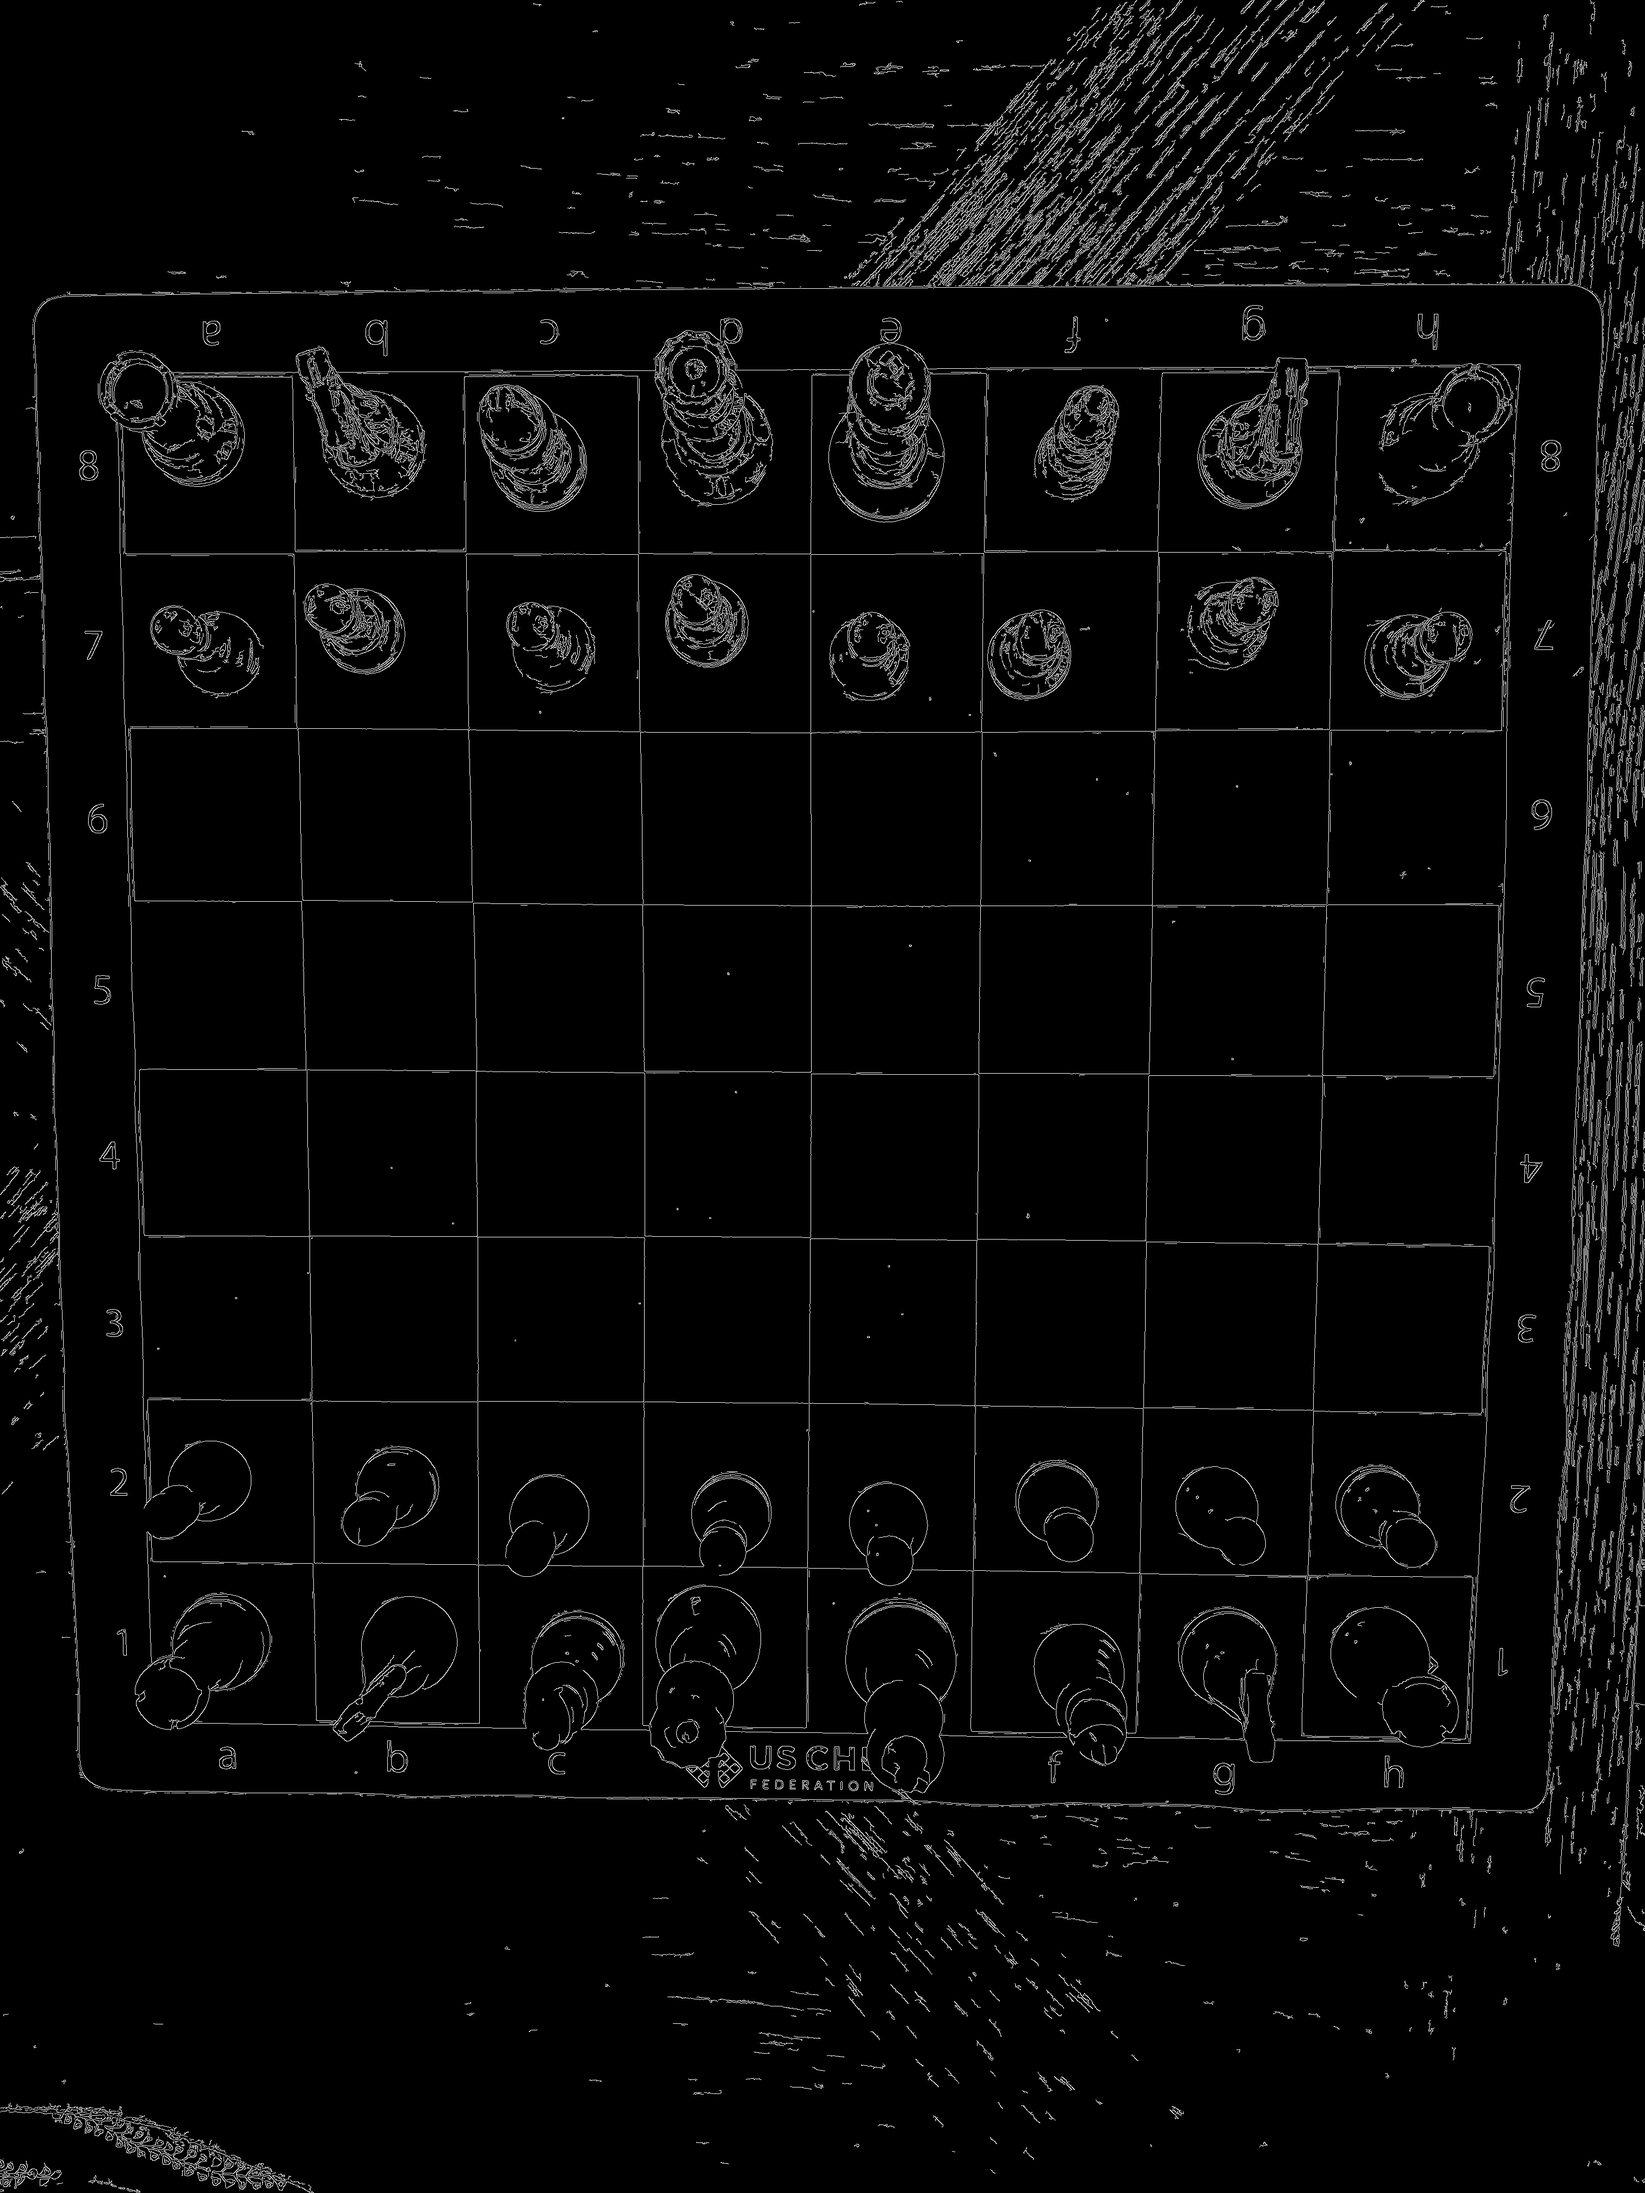
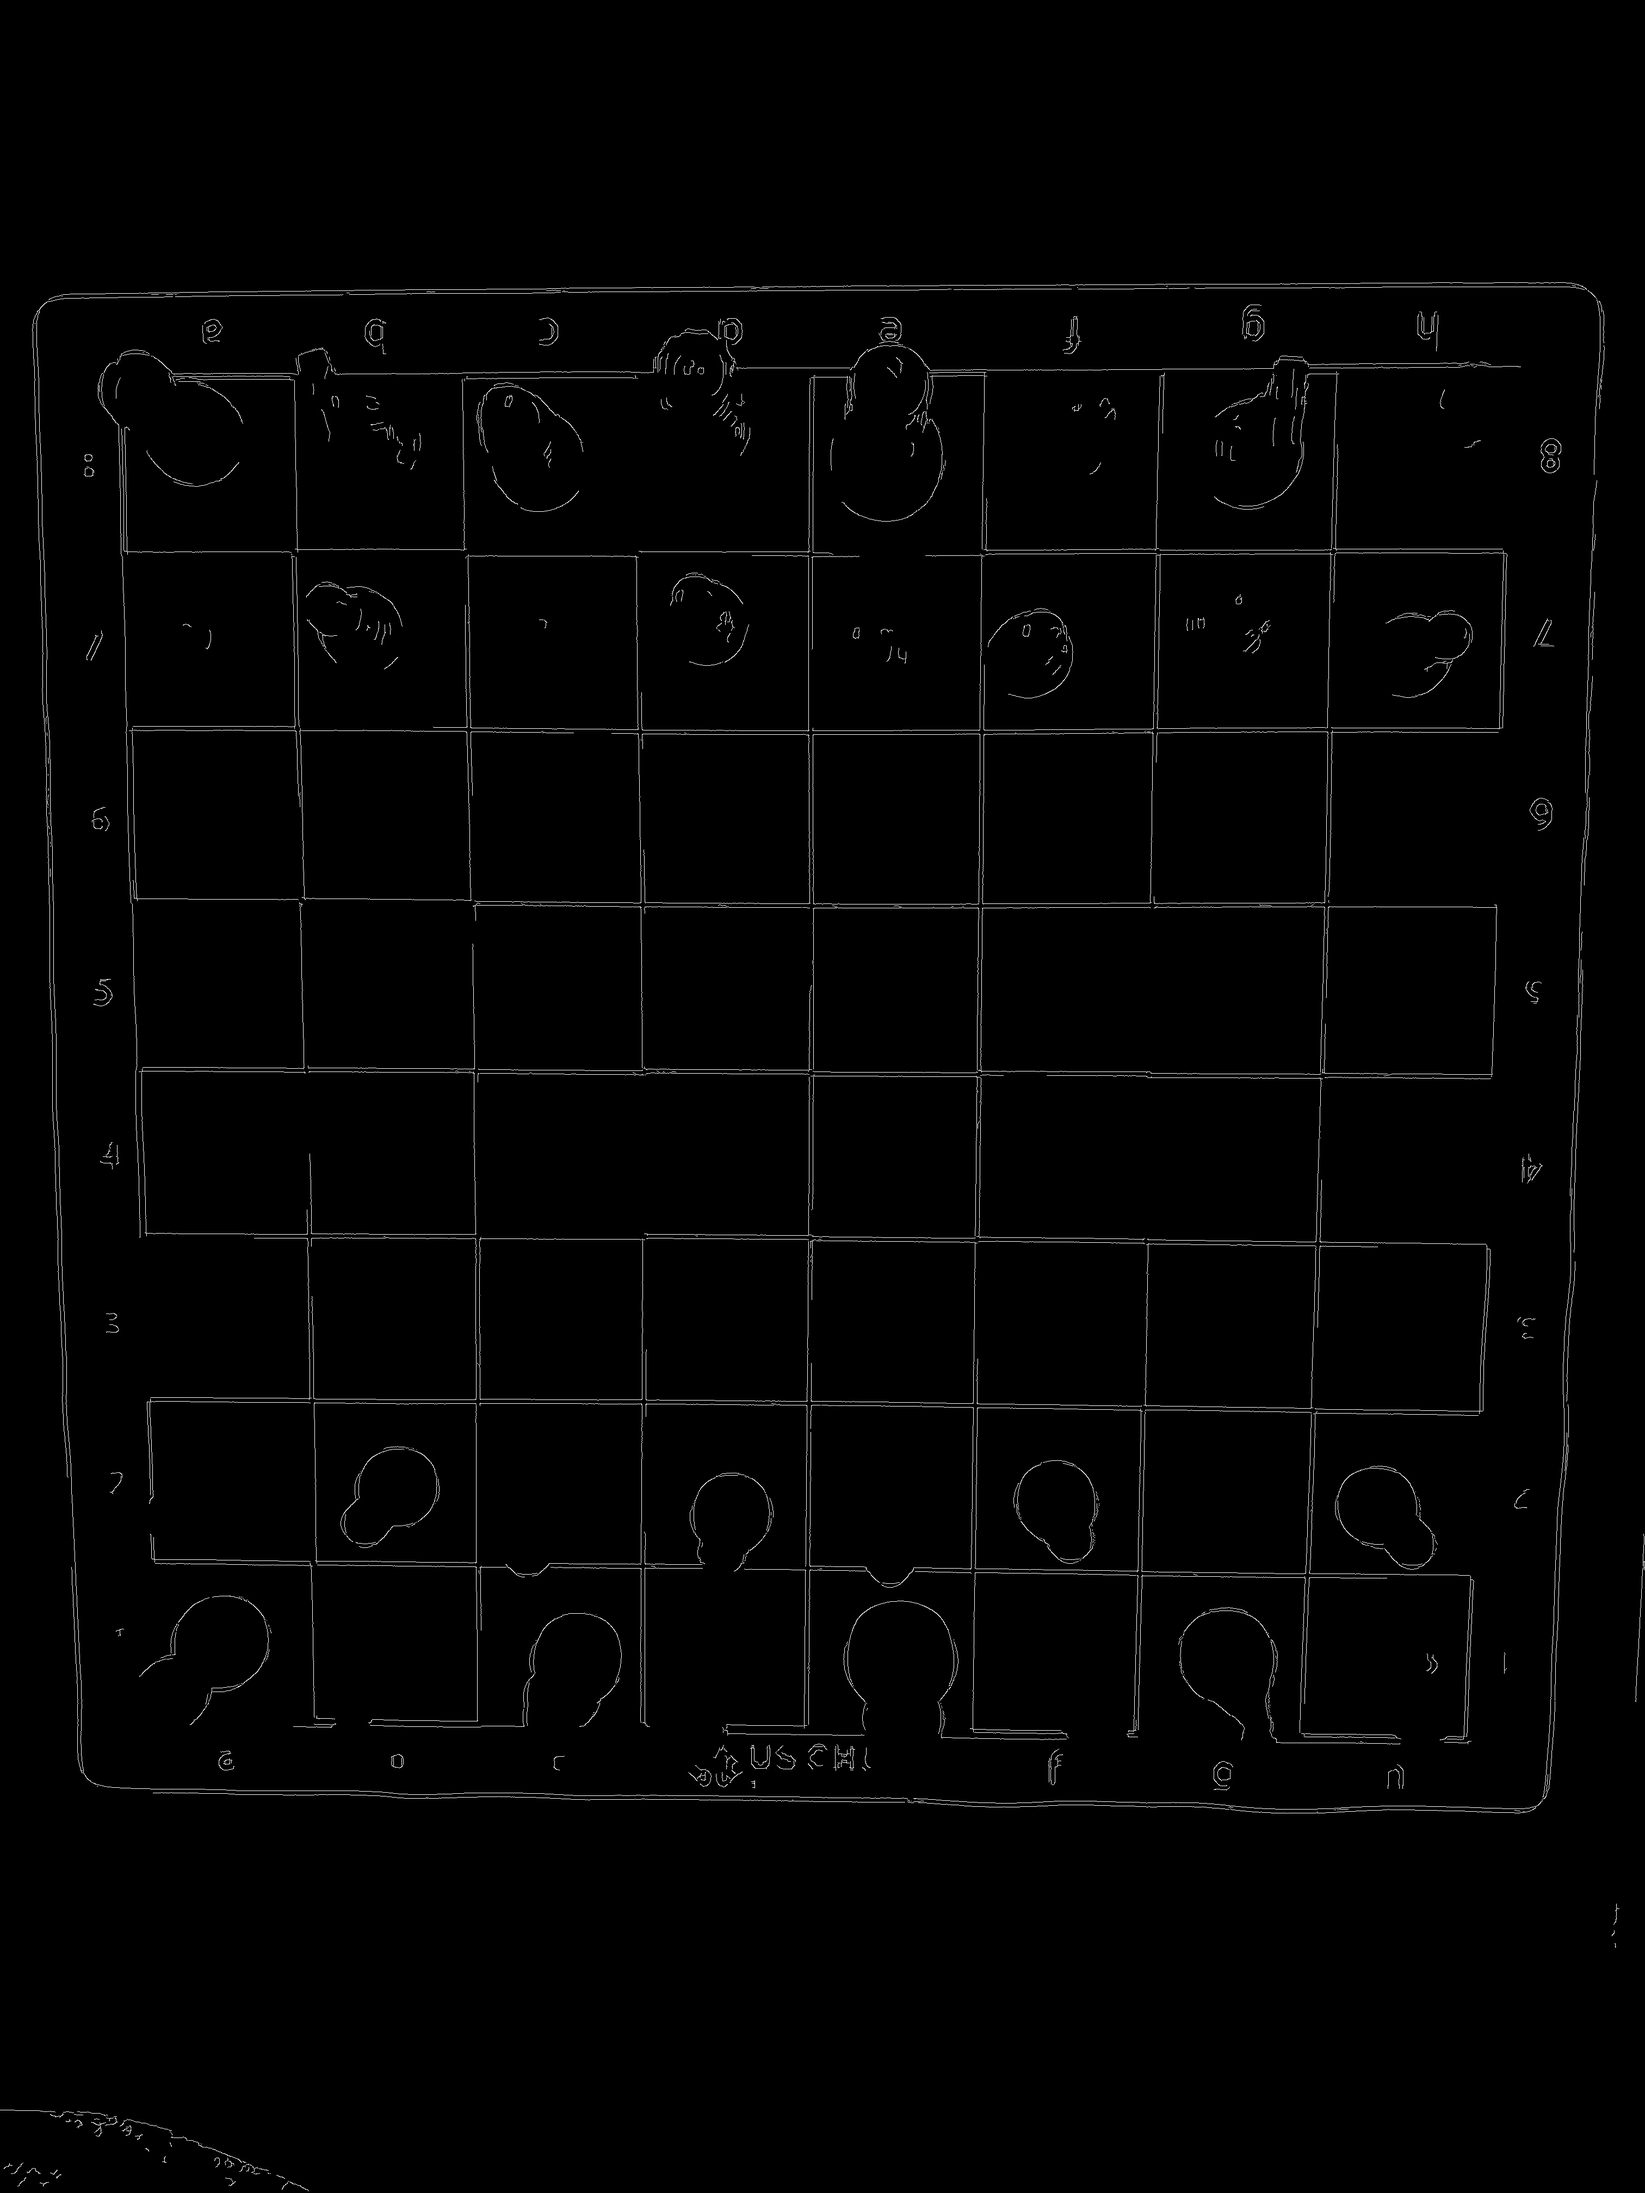
adjusted settings for better line (chess board) detection

diff --git a/check4mate (python app)/main.py b/check4mate (python app)/main.py
@@ -1,7 +1,8 @@
 import cv2
 import numpy as np
+import pandas as pd
 import math
-from roboflow import Roboflow
+# from roboflow import Roboflow
 
 
 # Functions:
@@ -17,25 +18,27 @@ def get_intersection(x1, x2, x3, x4, y1, y2, y3, y4):
                    ((y1 - y2) * ((x3 * y4) - (y3 * x4)))
                    ) / (((x1 - x2) * (y3 - y4)) - ((y1 - y2) * (x3 - x4)))  # see wikipedia line-line intersection page
 
-    return (int(x_intersect), int(y_intersect))  # returns a 2D point, (w/ int values)
+    return int(x_intersect), int(y_intersect)  # returns a 2D point, (w/ int values)
 
 
 # ----
 
 
 img = cv2.imread('board2.JPG')
+cv2.imshow('img', img)
+cv2.waitKey(0)
 
 # Convert the img to grayscale
 gray = cv2.cvtColor(img, cv2.COLOR_BGR2GRAY)
 
 # Apply edge detection method on the image
-edges = cv2.blur(gray.copy(), (7, 7))
-edges = cv2.Canny(gray, 50, 150, apertureSize=3)
+edges = cv2.blur(gray.copy(), (11,11))
+edges = cv2.Canny(edges, 50, 130, apertureSize=3)
 
 cv2.imwrite('edges.jpg', edges)
 
 # This returns an array of r and theta values
-lines = cv2.HoughLines(edges, 1, np.pi / 180, threshold=340)
+lines = cv2.HoughLines(edges, 1, np.pi / 180, threshold=370)
 
 linesH, linesV = [], []
 
@@ -78,142 +81,149 @@ for line in linesV + linesH:
     cv2.line(all_lines, line[0], line[1], (255, 0, 0), 6)
 cv2.imwrite('houghlines.jpg', all_lines)
 
-# sort lines greatest to least:
-tempH = [[(0, 0), (0, 0)]]
-for line in linesH:
-    for index, temp in enumerate(tempH):
-        if abs(((temp[0][1] + temp[1][1])/2) -
-               ((line[0][1] + line[1][1])/2)) < 100:  # duplicate line
-            break
-        if line[0][1] > temp[0][1]:
-            tempH.insert(index, line)
-            # cv2.line(img, line[0], line[1], (0, 255, 0), 2)
-            break
 
-del tempH[-1]  # take out that 0,0,0,0
-linesH = tempH
-
-all_lines = img.copy()
-for line in linesH:
-    cv2.line(all_lines, line[0], line[1], (255, 0, 0), 10)
-cv2.imwrite('pickedHorizontals.jpg', all_lines)
+# NEW STRATEGY FOR FINDING THE CORRECT 18 LINES
 
 
-tempV = [[[0, 0], [0, 0]]]
-for line in linesV:
-    for index, temp in enumerate(tempV):
-        if abs(((temp[0][0] + temp[1][0])/2) -
-               ((line[0][0] + line[1][0])/2)) < 100:  # duplicate line
-            break
-        if line[0][0] > temp[0][0]:
-            tempV.insert(index, line)
-            break
-del tempV[-1]
-linesV = tempV
 
-all_lines = img.copy()
-for line in linesV:
-    cv2.line(all_lines, line[0], line[1], (255, 0, 0), 10)
-cv2.imwrite('pickedVerticals.jpg', all_lines)
 
-while len(linesH) > 9:
-    # calculate average distance between lines:
-    avg = 0
-    for i in range(len(linesH) - 1):
-        avg += abs(linesH[i][0][1] - linesH[i + 1][0][1])
-    avg /= len(linesH)
+#
+# # sort lines greatest to least:
+# tempH = [[(0, 0), (0, 0)]]
+# for line in linesH:
+#     for index, temp in enumerate(tempH):
+#         if abs(((temp[0][1] + temp[1][1])/2) -
+#                ((line[0][1] + line[1][1])/2)) < 100:  # duplicate line
+#             break
+#         if line[0][1] > temp[0][1]:
+#             tempH.insert(index, line)
+#             # cv2.line(img, line[0], line[1], (0, 255, 0), 2)
+#             break
+#
+# del tempH[-1]  # take out that 0,0,0,0
+# linesH = tempH
+#
+# all_lines = img.copy()
+# for line in linesH:
+#     cv2.line(all_lines, line[0], line[1], (255, 0, 0), 10)
+# cv2.imwrite('pickedHorizontals.jpg', all_lines)
+#
+#
+# tempV = [[[0, 0], [0, 0]]]
+# for line in linesV:
+#     for index, temp in enumerate(tempV):
+#         if abs(((temp[0][0] + temp[1][0])/2) -
+#                ((line[0][0] + line[1][0])/2)) < 100:  # duplicate line
+#             break
+#         if line[0][0] > temp[0][0]:
+#             tempV.insert(index, line)
+#             break
+# del tempV[-1]
+# linesV = tempV
+#
+# all_lines = img.copy()
+# for line in linesV:
+#     cv2.line(all_lines, line[0], line[1], (255, 0, 0), 10)
+# cv2.imwrite('pickedVerticals.jpg', all_lines)
+#
+# while len(linesH) > 9:
+#     # calculate average distance between lines:
+#     avg = 0
+#     for i in range(len(linesH) - 1):
+#         avg += abs(linesH[i][0][1] - linesH[i + 1][0][1])
+#     avg /= len(linesH)
+#
+#     if abs(avg - abs(linesH[0][0][1] - linesH[1][0][1])) > abs(
+#             avg - abs(linesH[len(linesH) - 2][0][1] - linesH[len(linesH) - 1][0][1])):
+#         # if top has more error than bottom
+#         del linesH[0]
+#     else:
+#         del linesH[len(linesH) - 1]
+#
+# while len(linesV) > 9:
+#     # calculate average distance between lines:
+#     avg = 0
+#     for i in range(len(linesV) - 1):
+#         avg += abs(linesV[i][0][0] - linesV[i + 1][0][0])
+#     avg /= len(linesV)
+#
+#     if abs(avg - abs(linesV[0][0][0] - linesV[1][0][0])) > abs(
+#             avg - abs(linesV[len(linesV) - 2][0][0] - linesV[len(linesV) - 1][0][0])):
+#         # if top has more error than bottom
+#         del linesV[0]
+#     else:
+#         del linesV[len(linesV) - 1]
+#
+# for line in linesV + linesH:
+#     cv2.line(img, line[0], line[1], (255, 0, 0), 6)
+#
+# cv2.imwrite('linesDetected.jpg', img)
+#
+# intersection_points = []  # will end up being a 2D list of "2D points" (therefore technically a 3D list)
+#
+# ##find intersection points:
+# for x_line in range(9):
+#     intersection_points.append([])  # new row of points
+#     for y_line in range(9):
+#         # get 4 points, two from each line:
+#         x1 = linesH[x_line][0][0]
+#         y1 = linesH[x_line][0][1]
+#         x2 = linesH[x_line][1][0]
+#         y2 = linesH[x_line][1][1]
+#         x3 = linesV[y_line][0][0]
+#         y3 = linesV[y_line][0][1]
+#         x4 = linesV[y_line][1][0]
+#         y4 = linesV[y_line][1][1]
+#
+#         # add point to row of points.
+#         # get_intersection() is a custom function
+#         # that returns a 2D point
+#
+#         intersection_points[x_line].append(
+#             get_intersection(x1, x2, x3, x4, y1, y2, y3, y4))
+#         cv2.circle(img, intersection_points[x_line][y_line], 10, (0, 0, 255), -1)
+#
+# cv2.imwrite('intersections.jpg', img)
 
-    if abs(avg - abs(linesH[0][0][1] - linesH[1][0][1])) > abs(
-            avg - abs(linesH[len(linesH) - 2][0][1] - linesH[len(linesH) - 1][0][1])):
-        # if top has more error than bottom
-        del linesH[0]
-    else:
-        del linesH[len(linesH) - 1]
-
-while len(linesV) > 9:
-    # calculate average distance between lines:
-    avg = 0
-    for i in range(len(linesV) - 1):
-        avg += abs(linesV[i][0][0] - linesV[i + 1][0][0])
-    avg /= len(linesV)
-
-    if abs(avg - abs(linesV[0][0][0] - linesV[1][0][0])) > abs(
-            avg - abs(linesV[len(linesV) - 2][0][0] - linesV[len(linesV) - 1][0][0])):
-        # if top has more error than bottom
-        del linesV[0]
-    else:
-        del linesV[len(linesV) - 1]
-
-for line in linesV + linesH:
-    cv2.line(img, line[0], line[1], (255, 0, 0), 6)
-
-cv2.imwrite('linesDetected.jpg', img)
-
-intersection_points = []  # will end up being a 2D list of "2D points" (therefore technically a 3D list)
-
-##find intersection points:
-for x_line in range(9):
-    intersection_points.append([])  # new row of points
-    for y_line in range(9):
-        # get 4 points, two from each line:
-        x1 = linesH[x_line][0][0]
-        y1 = linesH[x_line][0][1]
-        x2 = linesH[x_line][1][0]
-        y2 = linesH[x_line][1][1]
-        x3 = linesV[y_line][0][0]
-        y3 = linesV[y_line][0][1]
-        x4 = linesV[y_line][1][0]
-        y4 = linesV[y_line][1][1]
-
-        # add point to row of points.
-        # get_intersection() is a custom function
-        # that returns a 2D point
-
-        intersection_points[x_line].append(
-            get_intersection(x1, x2, x3, x4, y1, y2, y3, y4))
-        cv2.circle(img, intersection_points[x_line][y_line], 10, (0, 0, 255), -1)
-
-cv2.imwrite('intersections.jpg', img)
-
-split_images = [] # will end up being a list of 64 images, each one a square of the board:
-# 0  1  2  3  4  5  6  7
-# 8  9  10 11 12 13 14 15
-# 16 17 18 19 20 21 22 23
-# 24 25 26 27 28 29 30 31
-# 32 33 34 35 36 37 38 39
-# 40 41 42 43 44 45 46 47
-# 48 49 50 51 52 53 54 55
-# 56 57 58 59 60 61 62 63
-
-# Using intersection points, segment into 64 different images and warp crop them into squares.
-# Then add to split_images...
-for i in range(64):
-    # pts1 = np.array([
-    #     intersection_points[math.floor(i / 8)][i % 8],              #top left
-    #     intersection_points[math.floor(i / 8)][(i % 8) + 1],        #top right
-    #     intersection_points[math.floor(i / 8) + 1][(i % 8) + 1],    #bottom right
-    #     intersection_points[math.floor(i / 8) + 1][(i % 8)]         #bottom left
-    # ], np.int32)
-    #
-
-    #
-    # pts2 = np.array([[0,0], [224, 0], [224, 0], [224, 224]], np.int32)
-    #
-    # matrix = cv2.getPerspectiveTransform(pts1, pts2)
-    # #split_images.append(cv2.warpPerspective(img, matrix, (224, 224)))
-    # cv2.imshow(f'Image {i}', cv2.warpPerspective(img, matrix, (224, 224)))
-
-    pts1 = np.float32([intersection_points[math.floor(i / 8)][i % 8], intersection_points[math.floor(i / 8)][(i % 8) + 1],
-                       intersection_points[math.floor(i / 8) + 1][(i % 8)], intersection_points[math.floor(i / 8) + 1][(i % 8) + 1]])
-    pts2 = np.float32([[224, 224], [0, 224],
-                       [224, 0], [0, 0]])
-
-    # Apply Perspective Transform Algorithm
-    matrix = cv2.getPerspectiveTransform(pts1, pts2)
-    split_images.append(cv2.warpPerspective(gray, matrix, (224, 224)))
-
-    cv2.imshow(f'Square {i}', split_images[i])
-    cv2.waitKey(0)
-
-    # test commit change :)
+# split_images = [] # will end up being a list of 64 images, each one a square of the board:
+# # 0  1  2  3  4  5  6  7
+# # 8  9  10 11 12 13 14 15
+# # 16 17 18 19 20 21 22 23
+# # 24 25 26 27 28 29 30 31
+# # 32 33 34 35 36 37 38 39
+# # 40 41 42 43 44 45 46 47
+# # 48 49 50 51 52 53 54 55
+# # 56 57 58 59 60 61 62 63
+#
+# # Using intersection points, segment into 64 different images and warp crop them into squares.
+# # Then add to split_images...
+# for i in range(64):
+#     # pts1 = np.array([
+#     #     intersection_points[math.floor(i / 8)][i % 8],              #top left
+#     #     intersection_points[math.floor(i / 8)][(i % 8) + 1],        #top right
+#     #     intersection_points[math.floor(i / 8) + 1][(i % 8) + 1],    #bottom right
+#     #     intersection_points[math.floor(i / 8) + 1][(i % 8)]         #bottom left
+#     # ], np.int32)
+#     #
+#
+#     #
+#     # pts2 = np.array([[0,0], [224, 0], [224, 0], [224, 224]], np.int32)
+#     #
+#     # matrix = cv2.getPerspectiveTransform(pts1, pts2)
+#     # #split_images.append(cv2.warpPerspective(img, matrix, (224, 224)))
+#     # cv2.imshow(f'Image {i}', cv2.warpPerspective(img, matrix, (224, 224)))
+#
+#     pts1 = np.float32([intersection_points[math.floor(i / 8)][i % 8], intersection_points[math.floor(i / 8)][(i % 8) + 1],
+#                        intersection_points[math.floor(i / 8) + 1][(i % 8)], intersection_points[math.floor(i / 8) + 1][(i % 8) + 1]])
+#     pts2 = np.float32([[224, 224], [0, 224],
+#                        [224, 0], [0, 0]])
+#
+#     # Apply Perspective Transform Algorithm
+#     matrix = cv2.getPerspectiveTransform(pts1, pts2)
+#     split_images.append(cv2.warpPerspective(gray, matrix, (224, 224)))
+#
+#     cv2.imshow(f'Square {i}', split_images[i])
+#     cv2.waitKey(0)
+#
+#     # test commit change :)
 
